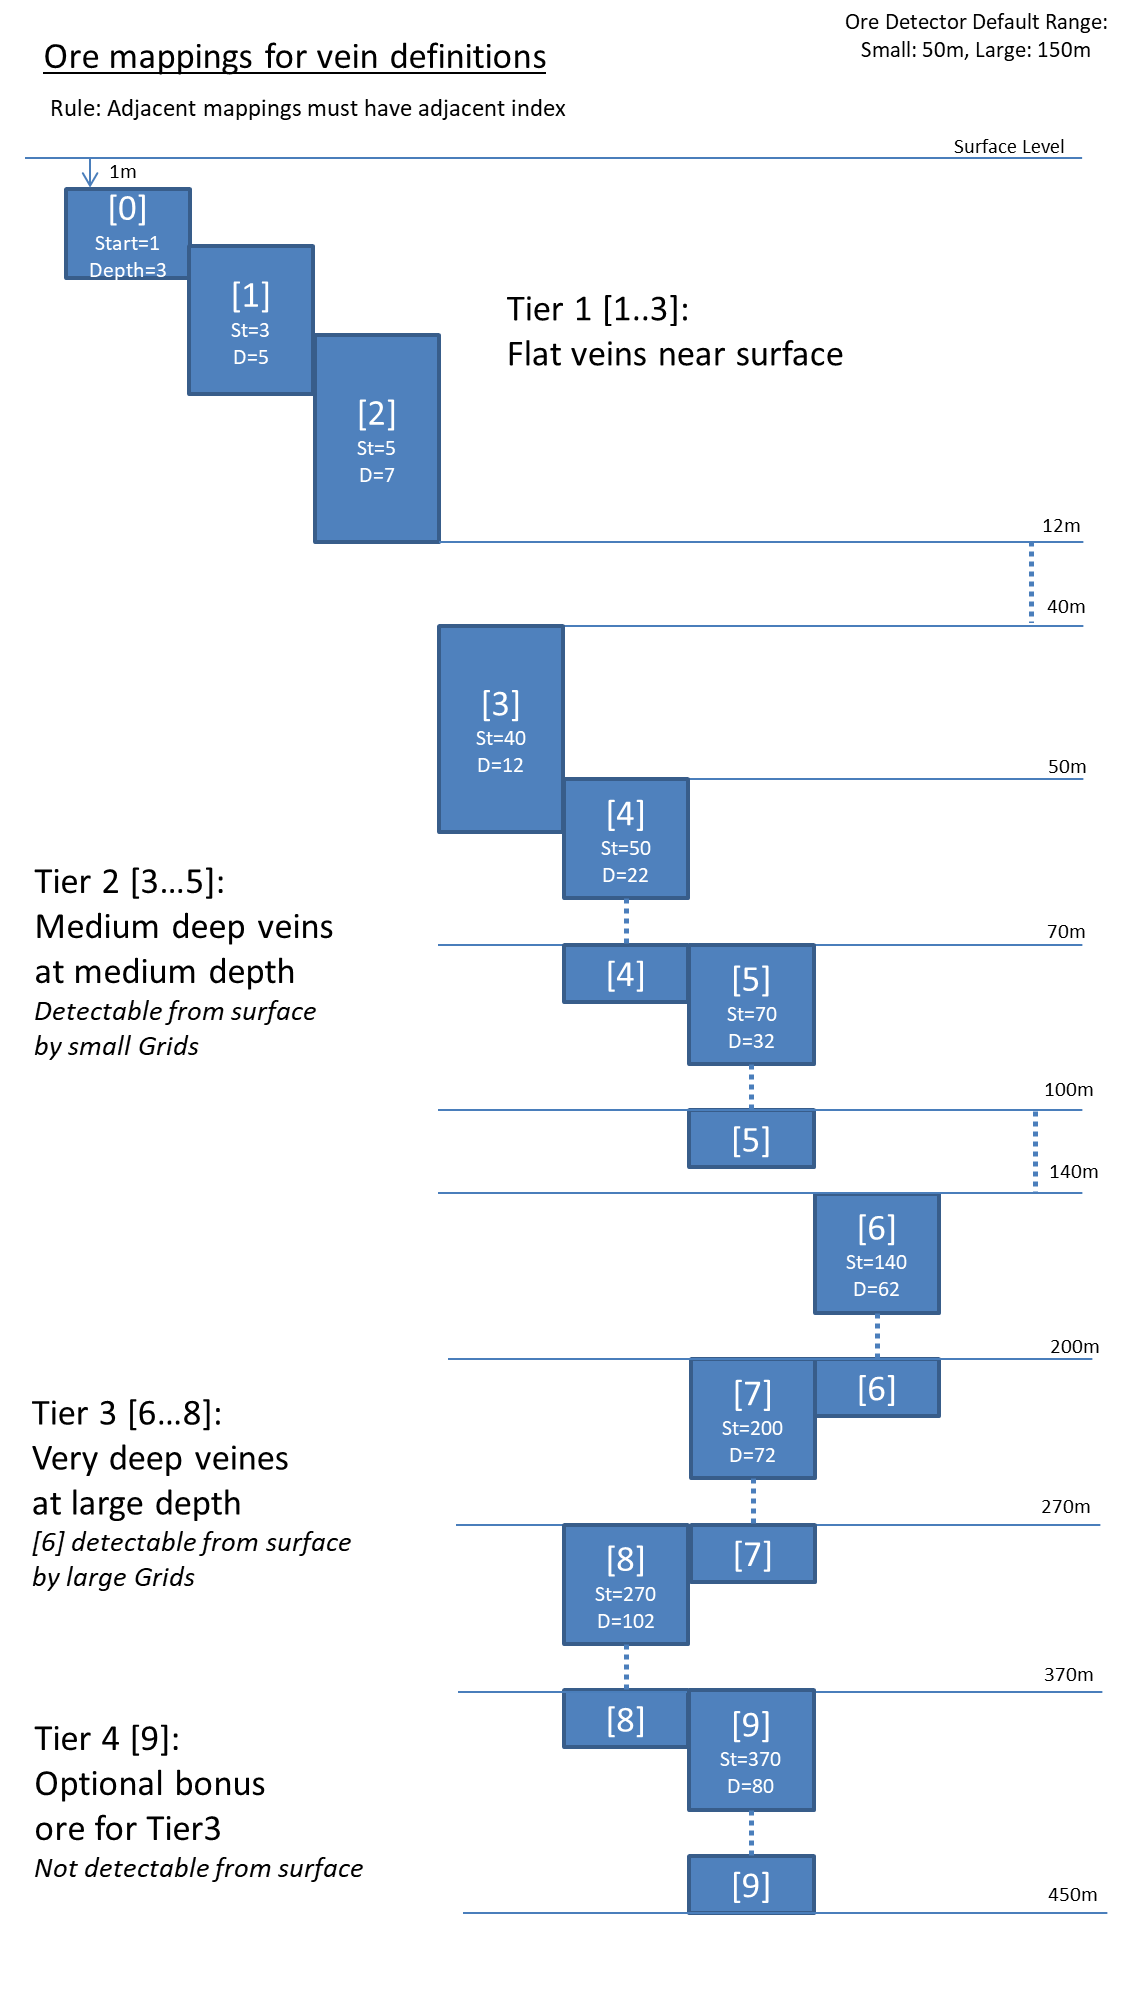
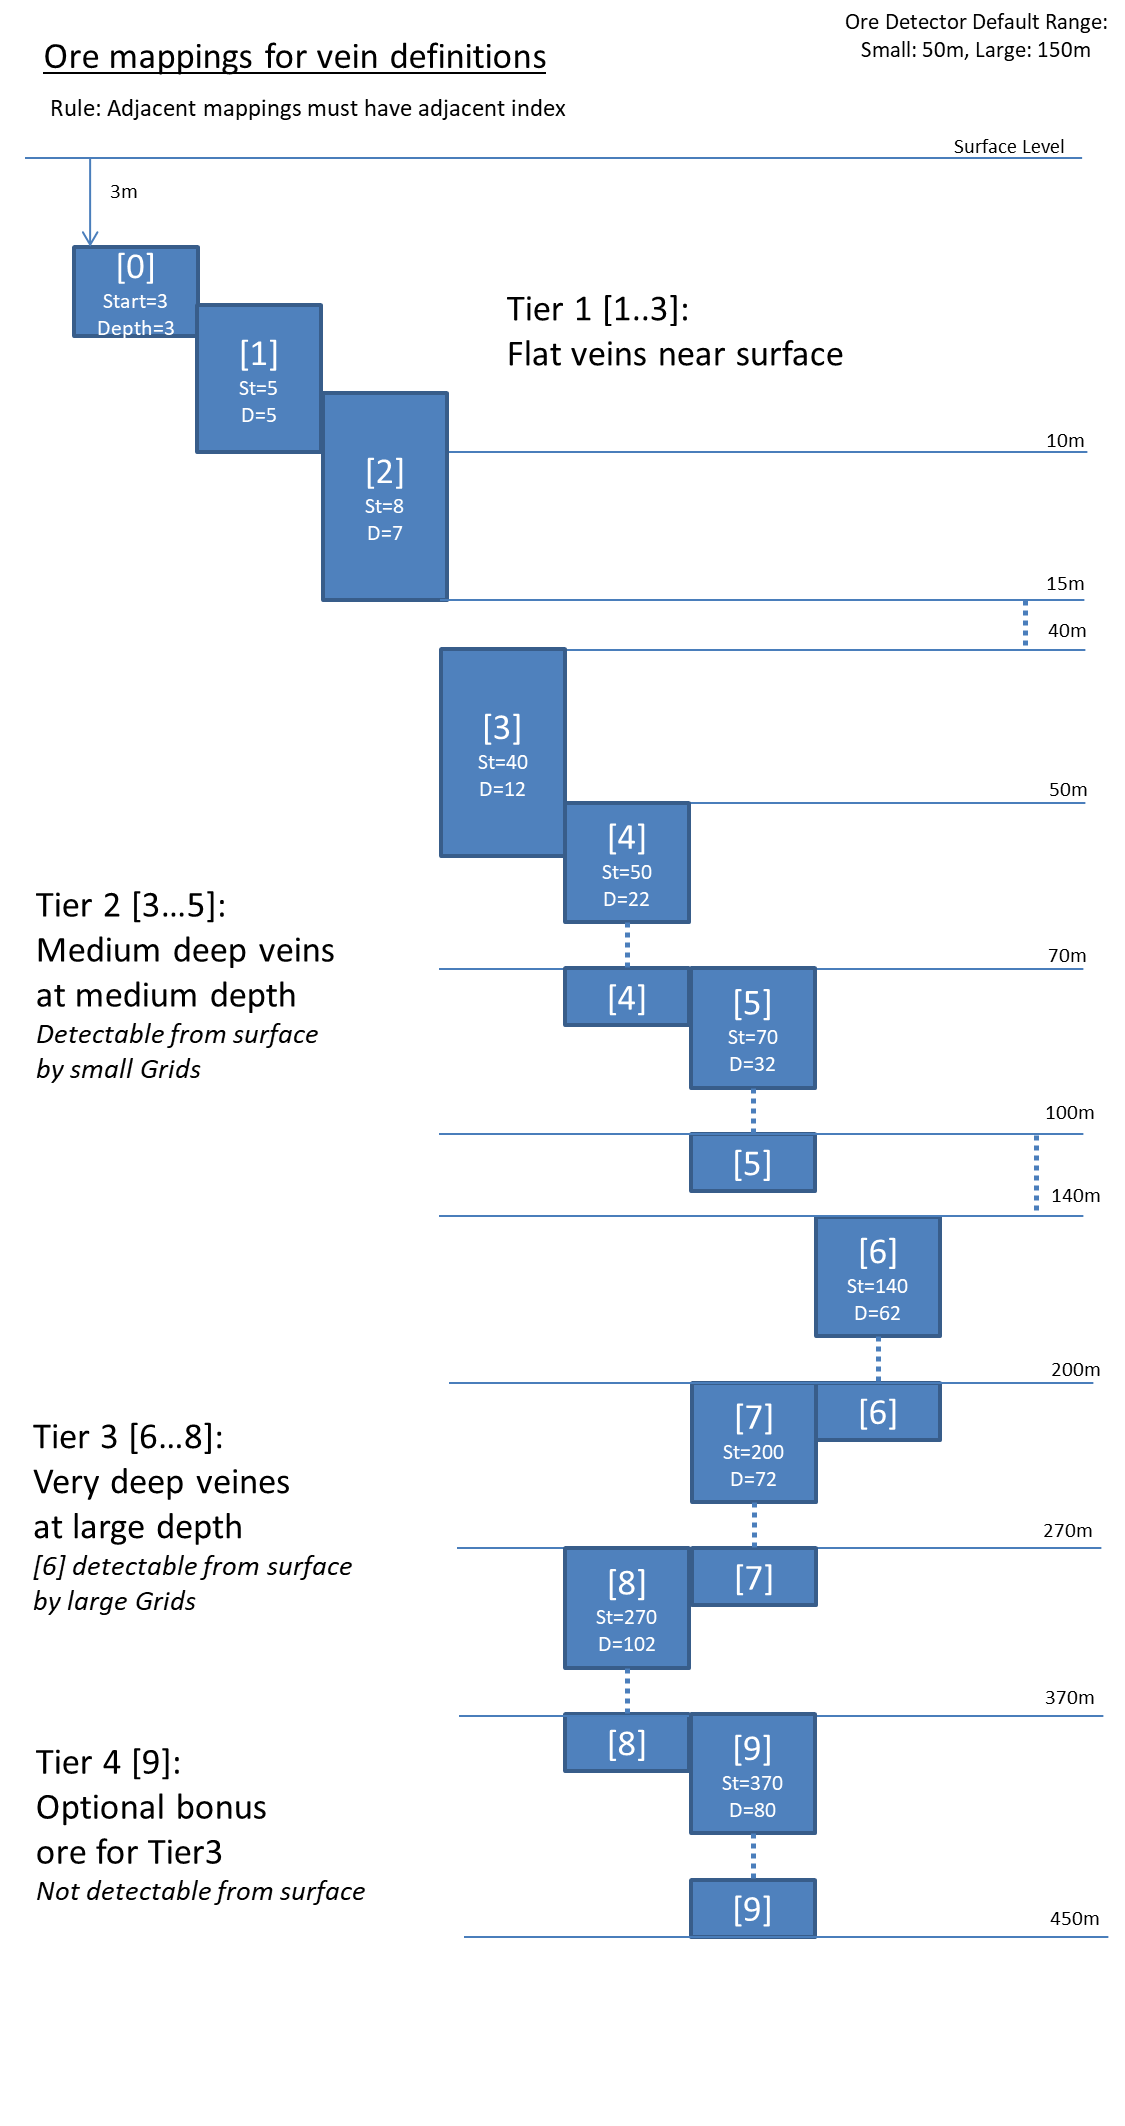
Ore rate increased from 1/3000 to 1/2000. Allow to set rate in setup. Ore start changed to 3m. Updated OreMappings.png in screenshots folder.

diff --git a/SpaceEngineersOreRedistribution/RedistributionSetup.xaml b/SpaceEngineersOreRedistribution/RedistributionSetup.xaml
@@ -24,6 +24,7 @@
                     <RowDefinition Height="Auto"/>
                     <RowDefinition Height="Auto"/>
                     <RowDefinition Height="Auto"/>
+                    <RowDefinition Height="Auto"/>
                 </Grid.RowDefinitions>
                 <ListView
                     Grid.Row="0" Margin="3"
@@ -84,6 +85,11 @@
                 <StackPanel Orientation="Horizontal" Grid.Row="3" >
                     <TextBlock Text="Standard Deviation for Gauss (1-50% rel. to max, default: 10%): "/>
                     <TextBox Width="50" Text="{Binding StdDev}"/>
+                </StackPanel>
+                <StackPanel Orientation="Horizontal" Grid.Row="4" >
+                    <TextBlock Text="Randomly spawn ore every "/>
+                    <TextBox Width="40" Text="{Binding OreSpawnRate}" HorizontalContentAlignment="Center"/>
+                    <TextBlock Text="pixels on average. (Default: 2000) "/>
                 </StackPanel>
             </Grid>
         </GroupBox>

diff --git a/SpaceEngineersOreRedistribution/MainWindowViewModel.cs b/SpaceEngineersOreRedistribution/MainWindowViewModel.cs
@@ -455,10 +455,10 @@ namespace SpaceEngineersOreRedistribution
             foreach (var oreType in oreTypeList)
             {
                 List<OreMapping> mList = new();
-                // Tier 1: Flat surface ore. Depth: 1m - 12m
-                mList.Add(new OreMapping { Value = nextOreValue++, Type = oreType, Start = 1, Depth = 3, ColorInfluence = "15", TargetColor = "616c83" });
-                mList.Add(new OreMapping { Value = nextOreValue++, Type = oreType, Start = 3, Depth = 5, ColorInfluence = "15", TargetColor = "616c83" });
-                mList.Add(new OreMapping { Value = nextOreValue++, Type = oreType, Start = 5, Depth = 7, ColorInfluence = "15", TargetColor = "616c83" });
+                // Tier 1: Flat surface ore. Depth: 3m - 15m
+                mList.Add(new OreMapping { Value = nextOreValue++, Type = oreType, Start = 3, Depth = 3, ColorInfluence = "15", TargetColor = "616c83" });
+                mList.Add(new OreMapping { Value = nextOreValue++, Type = oreType, Start = 5, Depth = 5, ColorInfluence = "15", TargetColor = "616c83" });
+                mList.Add(new OreMapping { Value = nextOreValue++, Type = oreType, Start = 8, Depth = 7, ColorInfluence = "15", TargetColor = "616c83" });
                 // Tier 2: Medium deep veins. Depth: 40m - 102m
                 mList.Add(new OreMapping { Value = nextOreValue++, Type = oreType, Start = 40, Depth = 12, ColorInfluence = "15", TargetColor = "616c83" });
                 mList.Add(new OreMapping { Value = nextOreValue++, Type = oreType, Start = 50, Depth = 22, ColorInfluence = "15", TargetColor = "616c83" });
@@ -515,16 +515,18 @@ namespace SpaceEngineersOreRedistribution
             var keys = _images.Keys;
             var rnd = new Random(0); // Seed 0 is better for debugging.
             var normal = new Normal(50, 10, 0);
+            bool overridefiles = false;
             foreach (var key in keys)
             {
                 if (!_images.TryGetValue(key, out var value)) return;
 
                 var fileName = Path.Combine(directory, key + "_mat.png");
-                if (File.Exists(fileName))
+                if (!overridefiles && File.Exists(fileName))
                 {
                     if (MessageBox.Show("File \r\n'" + fileName + "'\r\n already exists. " +
-                        "Override?\r\nProcess will abort if 'No' is selected.", "File found", MessageBoxButton.YesNo) != MessageBoxResult.Yes)
+                        "Override this and any other PNG files?\r\nProcess will abort if 'No' is selected.", "File found", MessageBoxButton.YesNo) != MessageBoxResult.Yes)
                         return;
+                    overridefiles = true;
                 }
 
                 // Final touch: Create the 'add' file:
@@ -552,13 +554,11 @@ namespace SpaceEngineersOreRedistribution
                         lbmap.SetPixel(x, y, System.Drawing.Color.FromArgb(255, 0, 0, 0));
                     }
                 }
+                int spawnRate = setup.ViewModel.OreSpawnRate; // Default 3000
+                if (spawnRate < 100) spawnRate = 100;
+                else if (spawnRate > 2000000) spawnRate = 2000000;
 
-                // In original file each ore deposit is about 28 pixel away from the next deposit
-                // in a checkboard pattern.
-                // Lets randomize this a bit:
-                // Square of 2*28 pixels width and length with 1 ore means:
-                // 1 ore in 3136 pixels
-                double prop = 1.0 / (3136);
+                double prop = 1.0 / spawnRate;//(3136);
                 double nBaseMin = 0.72; // This is just a random number I picked
                 double nBaseMax = nBaseMin + prop;
                 for (int x = 0; x < 2048; ++x)

diff --git a/SpaceEngineersOreRedistribution/RedistributionSetupViewModel.cs b/SpaceEngineersOreRedistribution/RedistributionSetupViewModel.cs
@@ -33,7 +33,7 @@ namespace SpaceEngineersOreRedistribution
         {
             OreInfos.Remove(SelectedInfo);
             SelectedInfo = null;
-        }, o=> SelectedInfo != null);
+        }, o => SelectedInfo != null);
 
         public ICommand ExportCommand => new RelayCommand(o =>
         {
@@ -58,7 +58,7 @@ namespace SpaceEngineersOreRedistribution
             {
                 MessageBox.Show(ex.Message, "Error", MessageBoxButton.OK, MessageBoxImage.Error);
             }
-        }, o=>OreInfos.Count > 0);
+        }, o => OreInfos.Count > 0);
 
         public ICommand ImportCommand => new RelayCommand(o =>
         {
@@ -97,6 +97,18 @@ namespace SpaceEngineersOreRedistribution
                     if (value > 50) StdDev = 50;
                 }
             }
+        }
+
+        // In original file each ore deposit is about 28 pixel away from the next deposit
+        // in a checkboard pattern.
+        // Lets randomize this a bit:
+        // Square of 2*28 pixels width and length with 1 ore means:
+        // 1 ore in 3136 pixels
+        int _oreSpawnRate = 2000;
+        public int OreSpawnRate
+        {
+            get => _oreSpawnRate;
+            set => SetProp(ref _oreSpawnRate, value);
         }
 
         public Action ConfirmAction;
